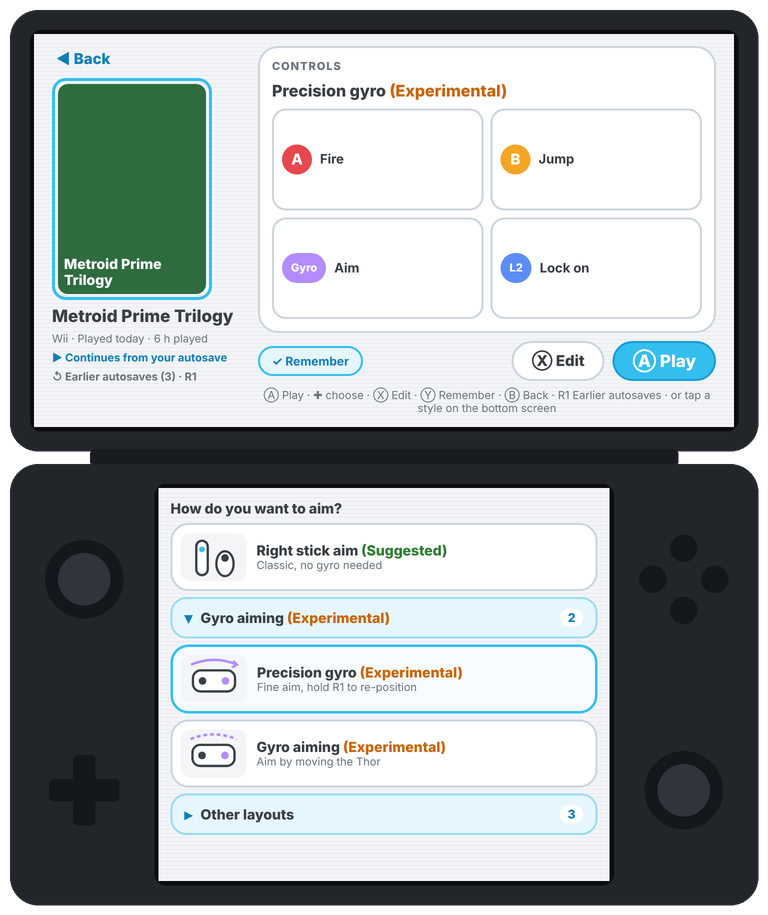
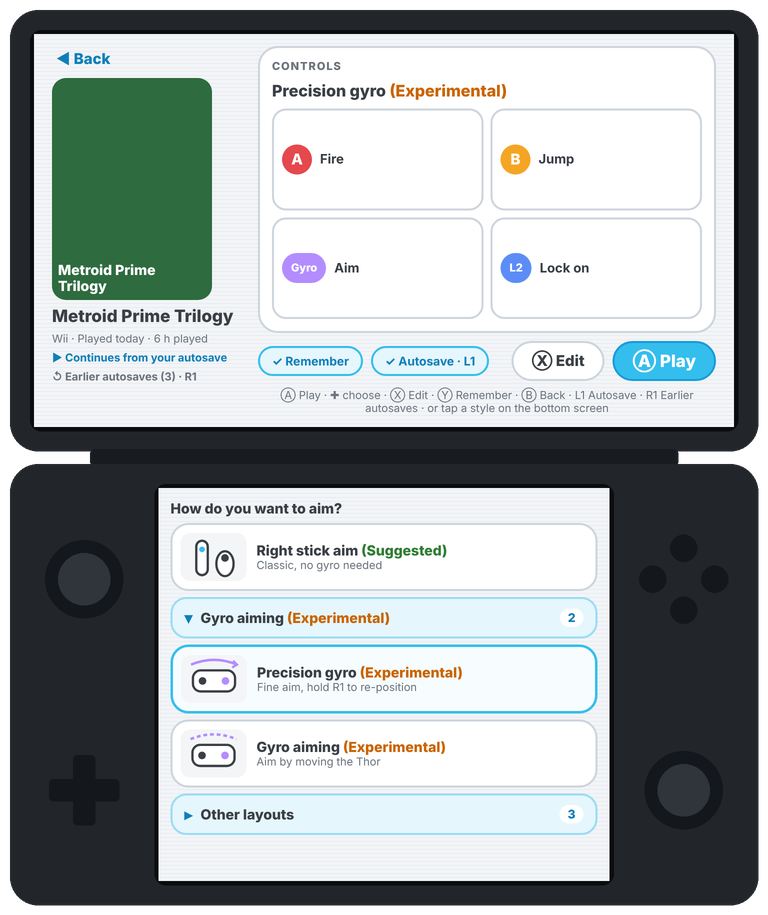
Autosave switch per game, off by default for Animal Crossing; no fixed frame on the game page cover
Claude-Session: https://claude.ai/code/session_017Es1WvuR75edjTX8cpNzUJ

Changed region(s): [[0.0625, 0.0612, 0.2812, 0.3366], [0.3438, 0.3672, 0.9062, 0.459]]

diff --git a/app/src/main/java/io/github/hiramrg/delphis/ui/Screens.kt b/app/src/main/java/io/github/hiramrg/delphis/ui/Screens.kt
@@ -117,7 +117,7 @@ private fun formatAgo(t: Long?): String {
 fun rememberHasAutosave(act: MainActivity, g: GameEntry): Boolean {
     val v = act.statsVersion
     val has by produceState(false, g.key, v) {
-        value = act.prefs.autoSaveResume && kotlinx.coroutines.withContext(kotlinx.coroutines.Dispatchers.IO) { act.bridge.hasAutosave(g.info.gameId) }
+        value = act.prefs.autoSaveFor(g.info.gameId) && kotlinx.coroutines.withContext(kotlinx.coroutines.Dispatchers.IO) { act.bridge.hasAutosave(g.info.gameId) }
     }
     return has
 }
@@ -634,11 +634,22 @@ fun GameScreen(act: MainActivity, game: GameEntry) {
         return
     }
 
+    // This game's own "Autosave & resume" choice (off by default for games that follow the real clock).
+    val gameId = game.info.gameId
+    val canAutosave = act.prefs.autoSaveResume && gameId != null
+    var gameAutosave by remember(game.key) { mutableStateOf(act.prefs.autoSaveChoiceFor(gameId)) }
+    fun toggleGameAutosave() {
+        if (!canAutosave) return
+        gameAutosave = !gameAutosave
+        act.prefs.setAutoSaveFor(gameId!!, gameAutosave)
+        act.statsVersion++
+    }
+
     // Earlier autosaves (kept before each autosave overwrites Dolphin's Quick Save slot).
     var backupsVersion by remember { mutableIntStateOf(0) }
     var showBackups by remember { mutableStateOf(false) }
     val backups by produceState(emptyList<io.github.hiramrg.delphis.platform.DolphinBridge.AutosaveBackup>(), game.key, act.statsVersion, backupsVersion) {
-        value = if (!act.prefs.autoSaveResume) emptyList()
+        value = if (!act.prefs.autoSaveFor(game.info.gameId)) emptyList()
         else kotlinx.coroutines.withContext(kotlinx.coroutines.Dispatchers.IO) { act.bridge.autosaveBackups(game.info.gameId) }
     }
     if (showBackups && backups.isNotEmpty()) {
@@ -659,10 +670,11 @@ fun GameScreen(act: MainActivity, game: GameEntry) {
     }
 
     // Physical buttons: A / Start = Play, D-pad or left stick = pick a preset, X = Edit, Y = Remember,
-    // R1 = earlier autosaves. B = Back.
+    // L1 = autosave on/off for this game, R1 = earlier autosaves. B = Back.
     val onKey by rememberUpdatedState<(KeyEvent) -> Boolean> { e ->
         if (p.editing || e.action != KeyEvent.ACTION_DOWN) false
         else when (e.keyCode) {
+            KeyEvent.KEYCODE_BUTTON_L1 -> { if (e.repeatCount == 0) toggleGameAutosave(); canAutosave }
             KeyEvent.KEYCODE_BUTTON_R1 -> { if (e.repeatCount == 0 && backups.isNotEmpty()) showBackups = true; backups.isNotEmpty() }
             KeyEvent.KEYCODE_BUTTON_A, KeyEvent.KEYCODE_BUTTON_START, KeyEvent.KEYCODE_ENTER, KeyEvent.KEYCODE_DPAD_CENTER -> { if (e.repeatCount == 0) p.play(); true }
             KeyEvent.KEYCODE_DPAD_DOWN -> { p.move(1); true }
@@ -679,7 +691,8 @@ fun GameScreen(act: MainActivity, game: GameEntry) {
         Column(Modifier.fillMaxHeight().widthIn(max = 220.dp), verticalArrangement = Arrangement.spacedBy(6.dp)) {
             Text("◀ Back", fontSize = 15.sp, fontWeight = FontWeight.ExtraBold, color = c.accentText,
                 modifier = Modifier.clip(RoundedCornerShape(8.dp)).clickable { act.screen = Screen.Home }.padding(4.dp))
-            Box(Modifier.weight(1f, fill = false).aspectRatio(0.72f).clip(RoundedCornerShape(14.dp)).border(3.dp, c.accent, RoundedCornerShape(14.dp)).padding(3.dp)) {
+            // No accent frame: the only blue ring is the one that follows the D-pad focus.
+            Box(Modifier.weight(1f, fill = false).aspectRatio(0.72f).clip(RoundedCornerShape(14.dp))) {
                 Cover(act, game, act.prefs.showCovers, Modifier.fillMaxSize(), titleSize = 14)
             }
             Text(game.info.title, fontSize = 17.sp, fontWeight = FontWeight.ExtraBold, maxLines = 2, overflow = TextOverflow.Ellipsis)
@@ -688,6 +701,10 @@ fun GameScreen(act: MainActivity, game: GameEntry) {
             if (backups.isNotEmpty()) Text(
                 "↺ Earlier autosaves (${backups.size}) · R1", fontSize = 11.sp, fontWeight = FontWeight.Bold, color = c.textDim,
                 modifier = Modifier.clip(RoundedCornerShape(6.dp)).clickable { showBackups = true }.padding(vertical = 2.dp),
+            )
+            if (canAutosave && !gameAutosave && io.github.hiramrg.delphis.core.AutosaveRules.offByDefault(gameId)) Text(
+                "🕒 Autosave is off so the game's clock always matches the real time. Save in the game before closing it.",
+                fontSize = 11.sp, color = c.textDim, maxLines = 3, overflow = TextOverflow.Ellipsis,
             )
         }
         // Right: controls preview (picker on the bottom screen) or the picker itself (single screen).
@@ -708,11 +725,12 @@ fun GameScreen(act: MainActivity, game: GameEntry) {
             }
             Row(verticalAlignment = Alignment.CenterVertically, horizontalArrangement = Arrangement.spacedBy(8.dp)) {
                 WiiChip(if (p.rememberChoice) "✓ Remember" else "Remember", p.rememberChoice, { p.rememberChoice = !p.rememberChoice })
+                if (canAutosave) WiiChip(if (gameAutosave) "✓ Autosave · L1" else "Autosave off · L1", gameAutosave, { toggleGameAutosave() })
                 Spacer(Modifier.weight(1f))
                 WiiButton("Ⓧ Edit", onClick = { p.editing = true }, enabled = sel != null)
                 WiiButton(if (sel == null) "Choose a style" else "Ⓐ Play", onClick = { p.play() }, primary = true, enabled = sel != null, fontSize = 17.sp)
             }
-            HintLine("Ⓐ Play · ✚ choose · Ⓧ Edit · Ⓨ Remember · Ⓑ Back" + (if (backups.isNotEmpty()) " · R1 Earlier autosaves" else "") + if (companion) " · or tap a style on the bottom screen" else "")
+            HintLine("Ⓐ Play · ✚ choose · Ⓧ Edit · Ⓨ Remember · Ⓑ Back" + (if (canAutosave) " · L1 Autosave" else "") + (if (backups.isNotEmpty()) " · R1 Earlier autosaves" else "") + if (companion) " · or tap a style on the bottom screen" else "")
         }
     }
 }

diff --git a/tools/screenshots/game_top.html b/tools/screenshots/game_top.html
@@ -2,7 +2,7 @@
 <div class="stripes" style="width:700px;height:393px;padding:12px 18px;display:flex;gap:16px">
  <div style="width:190px;display:flex;flex-direction:column;gap:6px">
   <div class="acc" style="font-weight:800;font-size:15px;padding:4px">◀ Back</div>
-  <div style="aspect-ratio:.72;width:160px;border-radius:14px;border:3px solid #34BEED;padding:3px"><div class="cover" style="height:100%;background:#2E6B3F;font-size:14px">Metroid Prime Trilogy</div></div>
+  <div style="aspect-ratio:.72;width:160px;border-radius:14px;overflow:hidden"><div class="cover" style="height:100%;background:#2E6B3F;font-size:14px">Metroid Prime Trilogy</div></div>
   <div style="font-weight:800;font-size:17px">Metroid Prime Trilogy</div><div class="dim" style="font-size:11px">Wii · Played today · 6 h played</div>
   <div class="acc" style="font-size:11px;font-weight:700">▶ Continues from your autosave</div>
   <div class="dim" style="font-size:11px;font-weight:700">↺ Earlier autosaves (3) · R1</div></div>
@@ -16,6 +16,6 @@
     <div class="card" style="border-radius:14px;display:flex;align-items:center;gap:8px;padding:8px"><span style="height:30px;padding:0 9px;border-radius:15px;background:#B38CFF;color:#fff;display:inline-flex;align-items:center;font-weight:800;font-size:11px">Gyro</span><b style="font-size:13px">Aim</b></div>
     <div class="card" style="border-radius:14px;display:flex;align-items:center;gap:8px;padding:8px"><span style="height:30px;padding:0 9px;border-radius:15px;background:#5C8DF6;color:#fff;display:inline-flex;align-items:center;font-weight:800;font-size:11px">L2</span><b style="font-size:13px">Lock on</b></div>
    </div></div>
-  <div style="display:flex;gap:8px;align-items:center"><span class="chip on">✓ Remember</span><span style="flex:1"></span><span class="btn">Ⓧ Edit</span><span class="btn p" style="font-size:17px">Ⓐ Play</span></div>
-  <div class="hint" style="text-align:center">Ⓐ Play · ✚ choose · Ⓧ Edit · Ⓨ Remember · Ⓑ Back · R1 Earlier autosaves · or tap a style on the bottom screen</div>
+  <div style="display:flex;gap:8px;align-items:center"><span class="chip on">✓ Remember</span><span class="chip on">✓ Autosave · L1</span><span style="flex:1"></span><span class="btn">Ⓧ Edit</span><span class="btn p" style="font-size:17px">Ⓐ Play</span></div>
+  <div class="hint" style="text-align:center">Ⓐ Play · ✚ choose · Ⓧ Edit · Ⓨ Remember · Ⓑ Back · L1 Autosave · R1 Earlier autosaves · or tap a style on the bottom screen</div>
  </div></div></body></html>

diff --git a/app/src/main/java/io/github/hiramrg/delphis/platform/Prefs.kt b/app/src/main/java/io/github/hiramrg/delphis/platform/Prefs.kt
@@ -107,6 +107,24 @@ class Prefs(context: Context) {
         get() = sp.getBoolean("auto_save_resume", true)
         set(v) = sp.edit().putBoolean("auto_save_resume", v).apply()
 
+    /** Per-game choice from the game's page, or the default (off for games that follow the real clock). */
+    fun autoSaveChoiceFor(gameId: String?): Boolean {
+        if (gameId == null) return false
+        if (gameId in (sp.getStringSet("autosave_games_on", emptySet()) ?: emptySet())) return true
+        if (gameId in (sp.getStringSet("autosave_games_off", emptySet()) ?: emptySet())) return false
+        return !io.github.hiramrg.delphis.core.AutosaveRules.offByDefault(gameId)
+    }
+
+    fun setAutoSaveFor(gameId: String, on: Boolean) {
+        val onSet = (sp.getStringSet("autosave_games_on", emptySet()) ?: emptySet()).toMutableSet()
+        val offSet = (sp.getStringSet("autosave_games_off", emptySet()) ?: emptySet()).toMutableSet()
+        if (on) { onSet.add(gameId); offSet.remove(gameId) } else { offSet.add(gameId); onSet.remove(gameId) }
+        sp.edit().putStringSet("autosave_games_on", onSet).putStringSet("autosave_games_off", offSet).apply()
+    }
+
+    /** Whether this game is autosaved and resumed: the global setting and the game's own choice. */
+    fun autoSaveFor(gameId: String?): Boolean = autoSaveResume && autoSaveChoiceFor(gameId)
+
     /** Set when Dolphin's menu had no Quick Save button (its "Enable Savestates" setting is off). */
     var saveStatesOff: Boolean
         get() = sp.getBoolean("save_states_off", false)

diff --git a/app/src/main/java/io/github/hiramrg/delphis/core/WhatsNew.kt b/app/src/main/java/io/github/hiramrg/delphis/core/WhatsNew.kt
@@ -5,13 +5,15 @@ package io.github.hiramrg.delphis.core
  * and replace [items]; people who already saw this release's notes won't see them again.
  */
 object WhatsNew {
-    const val RELEASE = 3
+    const val RELEASE = 4
 
     data class Item(val title: String, val text: String, val fix: Boolean = false)
 
     val items = listOf(
-        Item("Earlier autosaves.", "Before each autosave, Delphis now keeps the one before it (up to 3 per game). If a save ever won't load, press R1 on the game's page to go back to an earlier one."),
-        Item("Space under control.", "Settings → Closing games shows how much space they use, with a button to delete them."),
+        Item("Autosave per game.", "Each game's page now has an Autosave switch (L1). Turn it off for games you'd rather save yourself."),
+        Item("Animal Crossing keeps real time.", "Animal Crossing starts with autosave off, so its clock always matches the real one. Save in the game before closing it."),
+        Item("Earlier autosaves.", "Delphis keeps the last 3 autosaves per game. If a save won't load, press R1 on the game's page to go back to an earlier one."),
+        Item("Cleaner covers.", "The blue frame around covers is gone; the only blue ring is the one you move with the D-pad."),
     )
 
     /** Show after an update (never on a fresh install) until this release's notes were seen. */

diff --git a/app/src/main/java/io/github/hiramrg/delphis/platform/DolphinBridge.kt b/app/src/main/java/io/github/hiramrg/delphis/platform/DolphinBridge.kt
@@ -240,7 +240,7 @@ class DolphinBridge(private val context: Context, private val prefs: Prefs) {
         // Cover the top screen while Dolphin's menus are pressed (the caller hides it when it's done).
         val playing = GameWatch.session?.info
         if (DolphinExitService.gameShowing(pkg)) {
-            val saving = prefs.autoSaveResume && playing?.gameId != null
+            val saving = playing?.gameId != null && prefs.autoSaveFor(playing.gameId)
             DolphinExitService.showLoading(
                 if (saving) LoadingOverlay.Phase.SAVING else LoadingOverlay.Phase.CLOSING,
                 playing?.title, playing?.gameId, if (saving) "Autosaving and closing the game…" else "Closing the game…", displayId,
@@ -248,7 +248,7 @@ class DolphinBridge(private val context: Context, private val prefs: Prefs) {
             kotlinx.coroutines.delay(250) // let it draw before Dolphin's menu opens
         }
         // Autosave first, while the game is still running.
-        playing?.gameId?.let { id -> if (prefs.autoSaveResume) autoSave(pkg, id) }
+        playing?.gameId?.let { id -> if (prefs.autoSaveFor(id)) autoSave(pkg, id) }
         when (DolphinExitService.exit(pkg)) {
             DolphinExitService.Result.EXITED -> return CloseResult.EXITED
             DolphinExitService.Result.NO_GAME -> return CloseResult.NO_GAME

diff --git a/app/src/main/java/io/github/hiramrg/delphis/ui/NowPlayingActivity.kt b/app/src/main/java/io/github/hiramrg/delphis/ui/NowPlayingActivity.kt
@@ -231,7 +231,7 @@ class NowPlayingActivity : ComponentActivity() {
         window.attributes = window.attributes.apply { screenBrightness = level }
     }
 
-    private fun autosaveOn() = prefs.autoSaveResume && DolphinExitService.isEnabled(this)
+    private fun autosaveOn() = prefs.autoSaveFor(session?.info?.gameId) && DolphinExitService.isEnabled(this)
 
     private fun resolve(id: String): Preset = store.byId(id) ?: PresetLibrary.GAMECUBE
 
@@ -243,7 +243,7 @@ class NowPlayingActivity : ComponentActivity() {
             if (remember) prefs.setPresetFor(s.key, preset.id)
             val roles = DeviceInfo.screenRoles(this@NowPlayingActivity, prefs.swapScreens)
             // With autosave on, the game was just saved while closing, so it picks up right there.
-            bridge.launchFresh(s.uri, roles.topDisplayId, s.info.gameId?.takeIf { prefs.autoSaveResume }, s.info.title, s.info.gameId)
+            bridge.launchFresh(s.uri, roles.topDisplayId, s.info.gameId?.takeIf { prefs.autoSaveFor(it) }, s.info.title, s.info.gameId)
             session = s.copy(presetId = preset.id, applied = applied)
             watch(session)
             startedAt = SystemClock.elapsedRealtime()

diff --git a/app/src/main/java/io/github/hiramrg/delphis/core/AutosaveRules.kt b/app/src/main/java/io/github/hiramrg/delphis/core/AutosaveRules.kt
@@ -1,0 +1,19 @@
+package io.github.hiramrg.delphis.core
+
+/**
+ * Which games start with "Autosave & resume" off. A Dolphin save state also stores the console's
+ * clock, so resuming one puts a game back at the time it was saved. Games that follow the real
+ * clock (Animal Crossing) should boot normally instead, so they read the current time.
+ * The player can still switch autosave on or off for any game on its page.
+ */
+object AutosaveRules {
+    /** Game ID prefixes (first three characters, any region). */
+    private val REAL_TIME_GAMES = setOf(
+        "GAF", // Animal Crossing (GameCube; also Doubutsu no Mori+)
+        "GAE", // Doubutsu no Mori e+
+        "RUU", // Animal Crossing: City Folk / Let's Go to the City
+    )
+
+    fun offByDefault(gameId: String?): Boolean =
+        gameId != null && gameId.length >= 3 && gameId.substring(0, 3).uppercase() in REAL_TIME_GAMES
+}

diff --git a/app/src/main/java/io/github/hiramrg/delphis/ui/MainActivity.kt b/app/src/main/java/io/github/hiramrg/delphis/ui/MainActivity.kt
@@ -387,7 +387,7 @@ class MainActivity : ComponentActivity() {
                 runCatching { startActivity(intent, opts) }
             }
             val resumeId = entry.info.gameId?.takeIf {
-                prefs.autoSaveResume && withContext(Dispatchers.IO) { bridge.hasAutosave(it) }
+                prefs.autoSaveFor(it) && withContext(Dispatchers.IO) { bridge.hasAutosave(it) }
             }
             if (!bridge.launchFresh(entry.uri, roles.topDisplayId, resumeId, entry.info.title, entry.info.gameId)) {
                 Toast.makeText(applicationContext, "Dolphin isn't installed.", Toast.LENGTH_LONG).show()

diff --git a/app/src/test/java/io/github/hiramrg/delphis/core/AutosaveTest.kt b/app/src/test/java/io/github/hiramrg/delphis/core/AutosaveTest.kt
@@ -35,4 +35,12 @@ class AutosaveTest {
         assertEquals(listOf("100.s09"), AutosaveBackups.toDelete(names))
         assertTrue(AutosaveBackups.toDelete(listOf("1.s09", "2.s09")).isEmpty())
     }
+
+    @Test
+    fun realClockGamesStartWithAutosaveOff() {
+        for (id in listOf("GAFE01", "GAFP01", "GAFJ01", "GAEJ01", "RUUE01", "RUUP01", "ruuk01"))
+            assertTrue(id, AutosaveRules.offByDefault(id))
+        for (id in listOf("RMGE01", "GALE01", "SB4E01", "GA", "", null))
+            assertTrue(id.toString(), !AutosaveRules.offByDefault(id))
+    }
 }

diff --git a/README.md b/README.md
@@ -36,6 +36,7 @@ Pick a game and Delphis sets up the controls that suit it (pointer, sideways Wii
 
 ### Autosave and resume
 * When you close a game from Delphis, it saves a Dolphin save state first, and the next time you start that game from Delphis, it continues from there. You can turn this off in *Settings → Closing games*.
+* **Autosave per game.** Each game's page has an Autosave switch (L1). Animal Crossing starts with it off: a save state also stores the game's clock, so resuming would put the in-game time back to when you left. Booting normally lets it read the real time; save in the game before closing it.
 * **Earlier autosaves are kept.** Before each autosave, Delphis keeps a copy of the one before it (the last three per game). If a save ever won't load, press R1 on the game's page to go back to an earlier one; the space they use and a delete button are in *Settings → Closing games*.
 
 ### A Wii-style home
